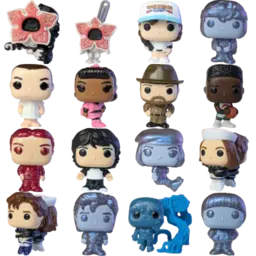
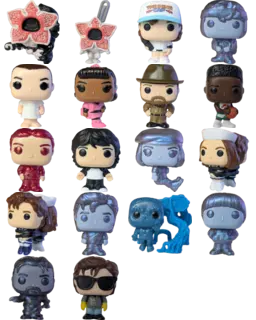
added new funkos

diff --git a/index.html b/index.html
@@ -85,27 +85,29 @@
 
 				<table class="st-table">
 					<tr>
+						<td><div class="st-atlas" style="--p: -64px -128px;"></div>Mike</td>
+						<td><div class="st-atlas" style="--p: -192px -64px;"></div>Lucas</td>
+						<td><div class="st-atlas" style="--p: 0px -64px;"></div>Eleven</td>
+						<td><div class="st-atlas" style="--p: -128px -64px;"></div>Hopper</td>
+						<td><div class="st-atlas" style="--p: 0px -128px;"></div>Upside Down Max</td>
+					</tr>
+					<tr>
+						<td><div class="st-atlas" style="--p: -128px 0px;"></div>Dustin</td>
+						<td colspan="2"><div class="st-atlas" style="--p: 0px -192px;"></div><div class="st-atlas" style="--p: -192px -128px;"></div>Pen deco. Steve and Robin</td>
+						<td><div class="st-atlas" style="--p: -64px -64px;"></div>Cable deco. Erica</td>
+						<td><div class="st-atlas" style="--p: -64px -256px;"></div>Steve</td>
+					</tr>
+					<tr>
+						<td><div class="st-atlas" style="--p: -128px -128px;"></div>Cable Deco. Upside Down Robin</td>
+						<td><div class="st-atlas" style="--p: -64px -192px;"></div>Upside Down Steve</td>
+						<td><div class="st-atlas" style="--p: -192px 0px;"></div>Upside Dowd Dustin</td>
+						<td><div class="st-atlas" style="--p: -192px -192px;"></div>Upside Down Will</td>
+						<td><div class="st-atlas" style="--p: 0px -256px;"></div>Upside Down Hopper</td>
+					</tr>
+					<tr>
+						<td><div class="st-atlas" style="--p: -128px -192px;"></div>Phone Stand Vecna</td>
+						<td><div class="st-atlas" style="--p: -64px 0px;"></div>Zipper Demogorgon</td>
 						<td><div class="st-atlas" style="--p: 0px 0px;"></div>Pen deco. Demogorgon</td>
-						<td><div class="st-atlas" style="--p: 192px 128px;"></div>Mike</td>
-						<td><div class="st-atlas" style="--p: 64px 192px;"></div>Lucas</td>
-						<td><div class="st-atlas" style="--p: 0px 192px;"></div>Eleven</td>
-						<td><div class="st-atlas" style="--p: 128px 192px;"></div>Hopper</td>
-					</tr>
-					<tr>
-						<td><div class="st-atlas" style="--p: 128px 0px;"></div>Dustin</td>
-						<td colspan="2"><div class="st-atlas" style="--p: 0px 64px;"></div><div class="st-atlas" style="--p: 64px 128px;"></div>Pen deco. Steve and Robin</td>
-						<td><div class="st-atlas" style="--p: 192px 192px;"></div>Cable deco. Erica</td>
-						<td><div class="st-atlas" style="--p: 192px 0px;"></div>Zipper Demogorgon</td>
-					</tr>
-					<tr>
-						<td><div class="st-atlas" style="--p: 128px 128px;"></div>Cable Deco. Upside Down Robin</td>
-						<td><div class="st-atlas" style="--p: 192px 64px;"></div>Upside Down Steve</td>
-						<td><div class="st-atlas" style="--p: 64px 0px;"></div>Upside Dowd Dustin</td>
-						<td><div class="st-atlas" style="--p: 0px 128px;"></div>Upside Down Max</td>
-						<td><div class="st-atlas" style="--p: 64px 64px;"></div>Upside Down Will</td>
-					</tr>
-					<tr>
-						<td><div class="st-atlas" style="--p: 128px 64px;"></div>Phone Stand Vecna</td>
 					</tr>
 				</table>
 			</section>

diff --git a/style.css b/style.css
@@ -96,11 +96,11 @@ summary {
 .st-atlas {
 	--p: 0px 0px;
 	background: url("assets/st-atlas.webp");
-	background-size: 256px;
+	background-size: 256px 320px;
+	background-position: var(--p);
 	display: inline-block;
 	height: 64px;
 	width: 64px;
-	background-position: var(--p);
 
 	& + & {
 		margin-left: 14px;
